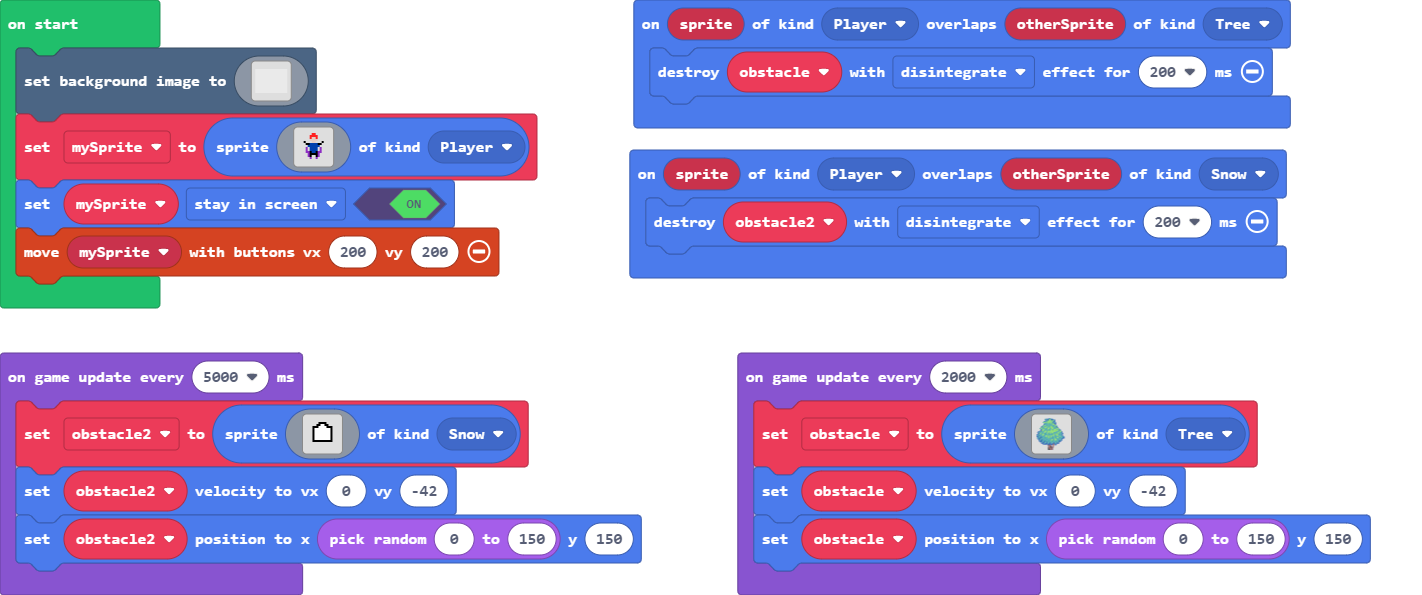
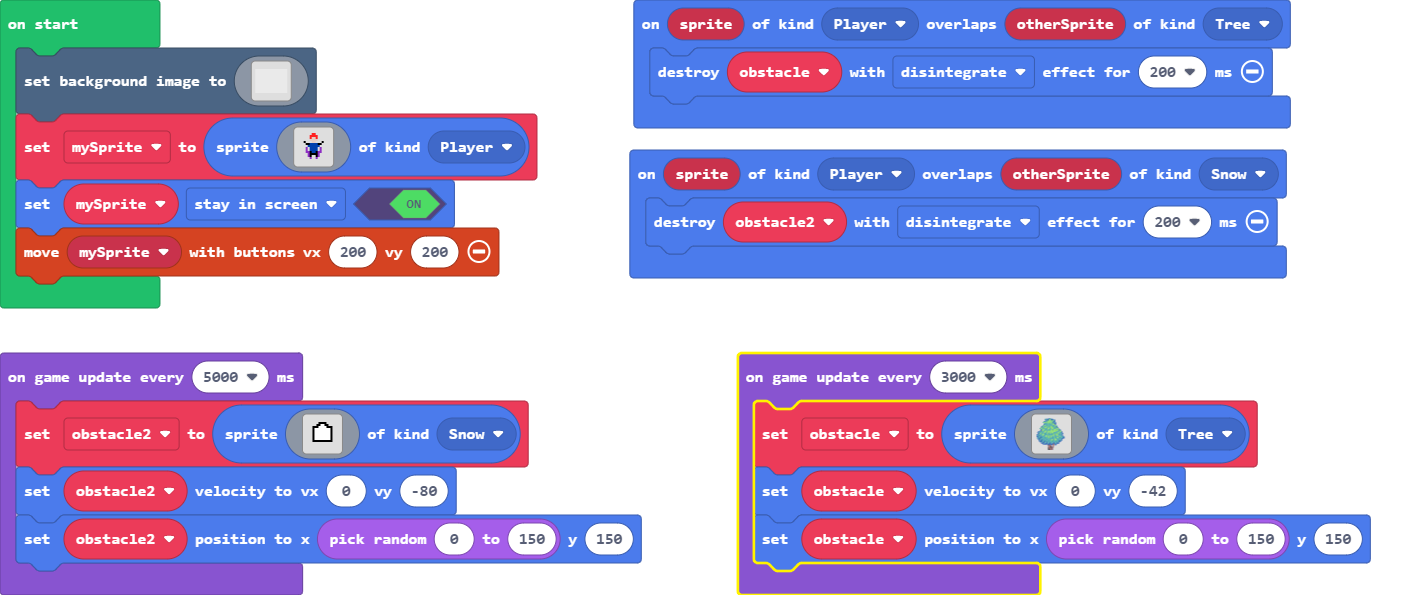
Update main.blocks, main.ts

diff --git a/main.ts b/main.ts
@@ -171,10 +171,10 @@ game.onUpdateInterval(5000, function () {
         . . . . . . . . . . . . . . . . 
         . . . . . . . . . . . . . . . . 
         `, SpriteKind.Snow)
-    obstacle2.setVelocity(0, -42)
+    obstacle2.setVelocity(0, -80)
     obstacle2.setPosition(randint(0, 150), 150)
 })
-game.onUpdateInterval(2000, function () {
+game.onUpdateInterval(3000, function () {
     obstacle = sprites.create(img`
         ................86..................
         ...........6688867886...............
